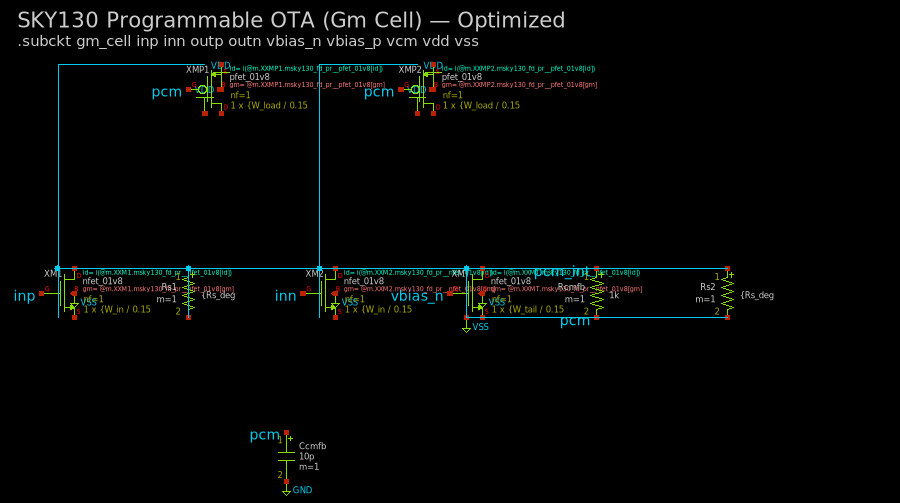
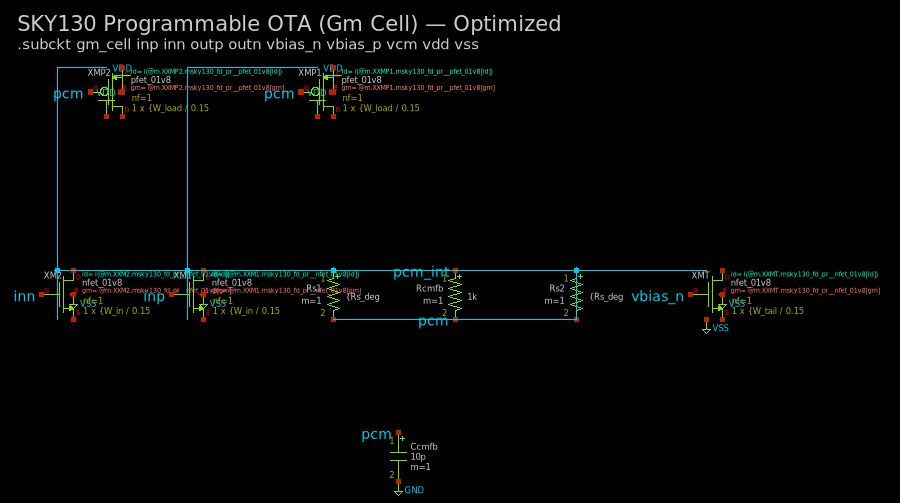
Improved free PMOS placement with multi-offset search
Try multiple x-offsets around the centroid to find non-overlapping
positions. Falls back to VDD_Y band if PMOS_Y is full.

Significantly improves cim_adc (StrongARM comparator): PMOS reset
devices now placed compactly near their connected nodes instead of
spread across the full width.

diff --git a/src/placer.py b/src/placer.py
@@ -383,11 +383,26 @@ def place_circuit(circuit: Circuit) -> PlacedCircuit:
             pos = _find_centroid_of_neighbors(circuit, name, result)
             if pos:
                 cx, cy = pos
-                px = _snap(cx)
                 py = _snap(PMOS_Y)
-                if _is_occupied(result, px, py, 120):
-                    px = _snap(cx + H_SPACING)
-                result.placements[name] = Placement(x=px, y=py)
+                # Try centroid x, then offsets, to find non-overlapping position
+                placed = False
+                for offset in [0, -100, 100, -H_SPACING, H_SPACING]:
+                    px = _snap(cx + offset)
+                    if not _is_occupied(result, px, py, 130):
+                        result.placements[name] = Placement(x=px, y=py)
+                        placed = True
+                        break
+                if not placed:
+                    # Place above (VDD_Y band) if PMOS_Y is full
+                    py = _snap(VDD_Y)
+                    for offset in [0, -100, 100, -H_SPACING, H_SPACING]:
+                        px = _snap(cx + offset)
+                        if not _is_occupied(result, px, py, 130):
+                            result.placements[name] = Placement(x=px, y=py)
+                            placed = True
+                            break
+                if not placed:
+                    result.placements[name] = Placement(x=_snap(cx + H_SPACING * 2), y=_snap(PMOS_Y))
             else:
                 result.placements[name] = Placement(x=_snap(cur_x), y=_snap(PMOS_Y))
                 cur_x += H_SPACING
